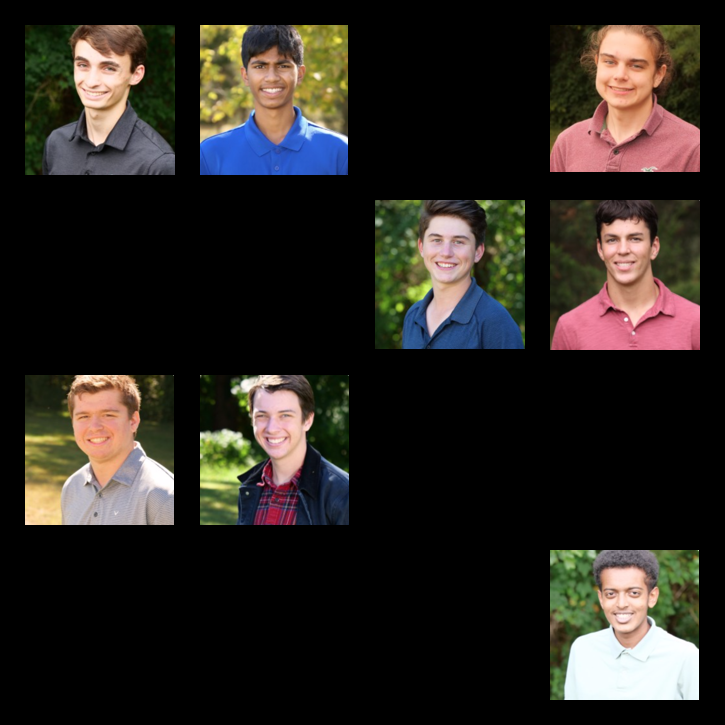
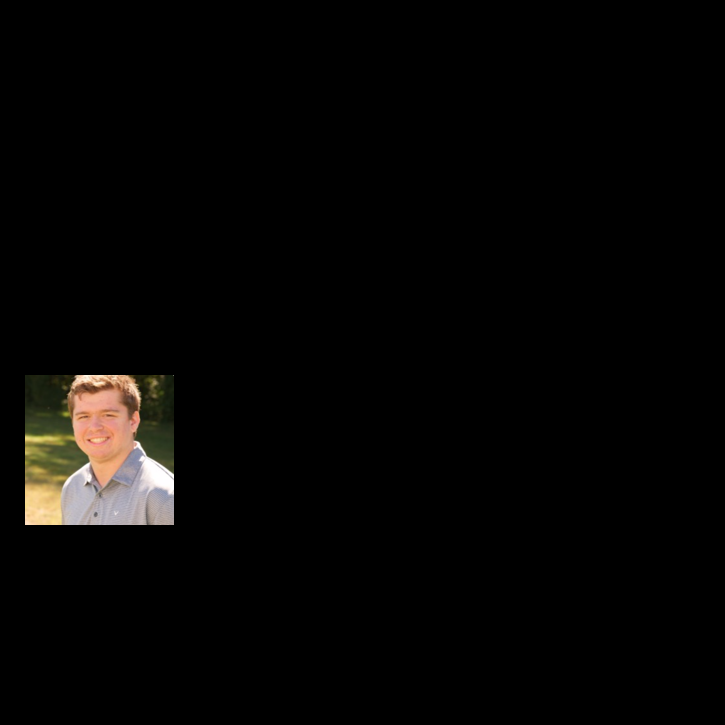
guessing

diff --git a/game.py b/game.py
@@ -1,20 +1,23 @@
 from grid import makeGrid
 import pygame
 import dropdown
+import grid
 from dropdown import DropDown
 import guessing
 import random
 pygame.init()
 
+guessCount = 0
+
 guessWhoList = ["Alex", "Aneesh", "Annabel", "Dashiell", "Ellie", "Evie", "Grant", "Hudson", "Jack", "Jonas", "Kate", "Kayla", "Mina", "Sam", "Will", "Yumn"]
-guessWho = guessWhoList[random.randint(0,16)]
+guessWho = guessWhoList[random.randint(0,15)]
 print(guessWho)
 
 def pilImageToSurface(pilImage):
     return pygame.image.fromstring(
         pilImage.tobytes(), pilImage.size, pilImage.mode).convert()
 
-window = pygame.display.set_mode((1000, 800))
+window = pygame.display.set_mode((1200, 800))
 pygame.display.set_caption("Guess Who?")
 
 pygameSurface = pilImageToSurface(makeGrid())
@@ -27,9 +30,12 @@ COLOR_LIST_ACTIVE = (255, 150, 150)
 list1 = DropDown(
     [COLOR_INACTIVE, COLOR_ACTIVE],
     [COLOR_LIST_INACTIVE, COLOR_LIST_ACTIVE],
-    800, 50, 200, 50,
-    pygame.font.SysFont(None, 30),
-    "Questions", ["Calibration", "Test"])
+    800, 50, 300, 30,
+    pygame.font.SysFont(None, 20),
+    "Questions", ["Is the person a girl?", "Is the person a boy?", "Are they smiling with teeth?","Are they smiling without teeth?",
+                  "Are they wearing red?", "Are they wearing blue?", "Are they wearing black?", "Are they wearing grey?", "Are they wearing tan?",
+                  "Are they wearing white?", "Are they wearing purple?", "Are they wearing mint?", "Do they have brown hair?",
+                  "Do they have black hair?", "Do they have blonde hair?", "Do they have curly hair?", "Do they have straight hair?"])
 
 
 run = True
@@ -41,6 +47,7 @@ while run:
 
     selected_option = list1.update(event_list)
     if selected_option >= 0:
+        guessCount = guessCount+1
         list1.main = list1.options[selected_option]
         if selected_option == 0:
             if (guessWho in guessing.girls):
@@ -49,12 +56,161 @@ while run:
                 guessing.guessChecker(guessing.girls)
             pygameSurface = pilImageToSurface(makeGrid())
         if selected_option == 1:
+            if (guessWho in guessing.boys):
+                guessing.guessChecker(guessing.girls)
+            else:
+                guessing.guessChecker(guessing.boys)
+            pygameSurface = pilImageToSurface(makeGrid())
+        if selected_option == 2:
             if (guessWho in guessing.noTeeth):
                 guessing.guessChecker(guessing.teeth)
             else:
                 guessing.guessChecker(guessing.noTeeth)
             pygameSurface = pilImageToSurface(makeGrid())
+        if selected_option == 3:
+            if (guessWho in guessing.teeth):
+                guessing.guessChecker(guessing.noTeeth)
+            else:
+                guessing.guessChecker(guessing.teeth)
+            pygameSurface = pilImageToSurface(makeGrid())
+        if selected_option == 4:
+            if (guessWho in guessing.red):
+                guessing.guessChecker(guessing.blue)
+                guessing.guessChecker(guessing.black)
+                guessing.guessChecker(guessing.grey)
+                guessing.guessChecker(guessing.tan)
+                guessing.guessChecker(guessing.white)
+                guessing.guessChecker(guessing.purple)
+                guessing.guessChecker(guessing.mint)
+            else:
+                guessing.guessChecker(guessing.red)
+            pygameSurface = pilImageToSurface(makeGrid())
 
+        if selected_option == 5:
+            if (guessWho in guessing.blue):
+                guessing.guessChecker(guessing.red)
+                guessing.guessChecker(guessing.black)
+                guessing.guessChecker(guessing.grey)
+                guessing.guessChecker(guessing.tan)
+                guessing.guessChecker(guessing.white)
+                guessing.guessChecker(guessing.purple)
+                guessing.guessChecker(guessing.mint)
+            else:
+                guessing.guessChecker(guessing.blue)
+            pygameSurface = pilImageToSurface(makeGrid())
+
+        if selected_option == 6:
+            if (guessWho in guessing.black):
+                guessing.guessChecker(guessing.red)
+                guessing.guessChecker(guessing.blue)
+                guessing.guessChecker(guessing.grey)
+                guessing.guessChecker(guessing.tan)
+                guessing.guessChecker(guessing.white)
+                guessing.guessChecker(guessing.purple)
+                guessing.guessChecker(guessing.mint)
+            else:
+                guessing.guessChecker(guessing.black)
+            pygameSurface = pilImageToSurface(makeGrid())
+
+        if selected_option == 7:
+            if (guessWho in guessing.grey):
+                guessing.guessChecker(guessing.red)
+                guessing.guessChecker(guessing.black)
+                guessing.guessChecker(guessing.blue)
+                guessing.guessChecker(guessing.tan)
+                guessing.guessChecker(guessing.white)
+                guessing.guessChecker(guessing.purple)
+                guessing.guessChecker(guessing.mint)
+            else:
+                guessing.guessChecker(guessing.grey)
+            pygameSurface = pilImageToSurface(makeGrid())
+
+        if selected_option == 8:
+            if (guessWho in guessing.tan):
+                guessing.guessChecker(guessing.red)
+                guessing.guessChecker(guessing.black)
+                guessing.guessChecker(guessing.blue)
+                guessing.guessChecker(guessing.grey)
+                guessing.guessChecker(guessing.white)
+                guessing.guessChecker(guessing.purple)
+                guessing.guessChecker(guessing.mint)
+            else:
+                guessing.guessChecker(guessing.tan)
+            pygameSurface = pilImageToSurface(makeGrid())
+
+        if selected_option == 9:
+            if (guessWho in guessing.white):
+                guessing.guessChecker(guessing.red)
+                guessing.guessChecker(guessing.black)
+                guessing.guessChecker(guessing.blue)
+                guessing.guessChecker(guessing.tan)
+                guessing.guessChecker(guessing.grey)
+                guessing.guessChecker(guessing.purple)
+                guessing.guessChecker(guessing.mint)
+            else:
+                guessing.guessChecker(guessing.white)
+            pygameSurface = pilImageToSurface(makeGrid())
+
+        if selected_option == 10:
+            if (guessWho in guessing.purple):
+                guessing.guessChecker(guessing.red)
+                guessing.guessChecker(guessing.black)
+                guessing.guessChecker(guessing.blue)
+                guessing.guessChecker(guessing.tan)
+                guessing.guessChecker(guessing.white)
+                guessing.guessChecker(guessing.grey)
+                guessing.guessChecker(guessing.mint)
+            else:
+                guessing.guessChecker(guessing.purple)
+            pygameSurface = pilImageToSurface(makeGrid())
+        if selected_option == 11:
+            if (guessWho in guessing.mint):
+                guessing.guessChecker(guessing.red)
+                guessing.guessChecker(guessing.black)
+                guessing.guessChecker(guessing.blue)
+                guessing.guessChecker(guessing.tan)
+                guessing.guessChecker(guessing.white)
+                guessing.guessChecker(guessing.purple)
+                guessing.guessChecker(guessing.grey)
+            else:
+                guessing.guessChecker(guessing.mint)
+            pygameSurface = pilImageToSurface(makeGrid())
+        if selected_option == 12:
+            if (guessWho in guessing.brownHair):
+                guessing.guessChecker(guessing.blackHair)
+                guessing.guessChecker(guessing.blondeHair)
+            else:
+                guessing.guessChecker(guessing.brownHair)
+            pygameSurface = pilImageToSurface(makeGrid())
+        if selected_option == 13:
+            if (guessWho in guessing.blackHair):
+                guessing.guessChecker(guessing.brownHair)
+                guessing.guessChecker(guessing.blondeHair)
+            else:
+                guessing.guessChecker(guessing.blackHair)
+            pygameSurface = pilImageToSurface(makeGrid())
+        if selected_option == 14:
+            if (guessWho in guessing.blondeHair):
+                guessing.guessChecker(guessing.brownHair)
+                guessing.guessChecker(guessing.blackHair)
+            else:
+                guessing.guessChecker(guessing.blondeHair)
+            pygameSurface = pilImageToSurface(makeGrid())
+        if selected_option == 15:
+            if (guessWho in guessing.curlyHair):
+                guessing.guessChecker(guessing.straightHair)
+            else:
+                guessing.guessChecker(guessing.curlyHair)
+            pygameSurface = pilImageToSurface(makeGrid())
+        if selected_option == 16:
+            if (guessWho in guessing.blondeHair):
+                guessing.guessChecker(guessing.curlyHair)
+            else:
+                guessing.guessChecker(guessing.straightHair)
+            pygameSurface = pilImageToSurface(makeGrid())
+    if grid.numTrue() == 1:
+        run = False
+        print(guessCount)
 
 
     window.fill((255, 255, 255))

diff --git a/grid.py b/grid.py
@@ -10,12 +10,10 @@ def makeGrid():
     #Iterate through a 4 by 4 grid with 100 spacing, to place my image
     if guessing.Alex == True :
         startGrid.paste(im1, (25,25))
-        print("yes")
     if guessing.Aneesh == True:
         startGrid.paste(im2, (200,25))
     if guessing.Annabel == True :
         startGrid.paste(im3, (375,25))
-        print("yes")
     if guessing.Dashiell == True :
         startGrid.paste(im4, (550,25))
     if guessing.Ellie == True :
@@ -44,6 +42,42 @@ def makeGrid():
         startGrid.paste(im16, (550,550))
     startGrid.save("finalgrid.png")
     return startGrid
+
+def numTrue():
+    num = 0
+    if guessing.Alex == True :
+        num=num+1
+    if guessing.Aneesh == True:
+        num=num+1
+    if guessing.Annabel == True :
+        num = num + 1
+    if guessing.Dashiell == True :
+        num=num+1
+    if guessing.Ellie == True :
+        num=num+1
+    if guessing.Evie == True :
+        num=num+1
+    if guessing.Grant == True :
+        num = num + 1
+    if guessing.Hudson == True :
+        num=num+1
+    if guessing.Jack == True :
+        num=num+1
+    if guessing.Jonas == True :
+        num=num+1
+    if guessing.Kate == True :
+        num=num+1
+    if guessing.Kayla == True :
+        num=num+1
+    if guessing.Mina == True :
+        num=num+1
+    if guessing.Sam == True :
+        num=num+1
+    if guessing.Will == True :
+        num=num+1
+    if guessing.Yumn == True :
+        num = num + 1
+    return num
 
 
 

diff --git a/guessing.py b/guessing.py
@@ -24,7 +24,7 @@ boys = ["Alex", "Aneesh", "Dashiell", "Grant", "Hudson", "Jack", "Jonas", "Sam",
 red = ["Hudson", "Dashiell", "Annabel", "Jonas"]
 blue = ["Grant", "Aneesh", "Will"]
 black = ["Alex", "Ellie", "Kate"]
-gray = ["Jack"]
+grey = ["Jack"]
 tan = ["Sam"]
 white = ["Evie"]
 purple = ["Mina"]
@@ -88,6 +88,5 @@ def guessChecker(list):
     if "Yumn" in list:
         global Yumn
         Yumn = False
-    print(Alex,Mina,Sam)
 
 
